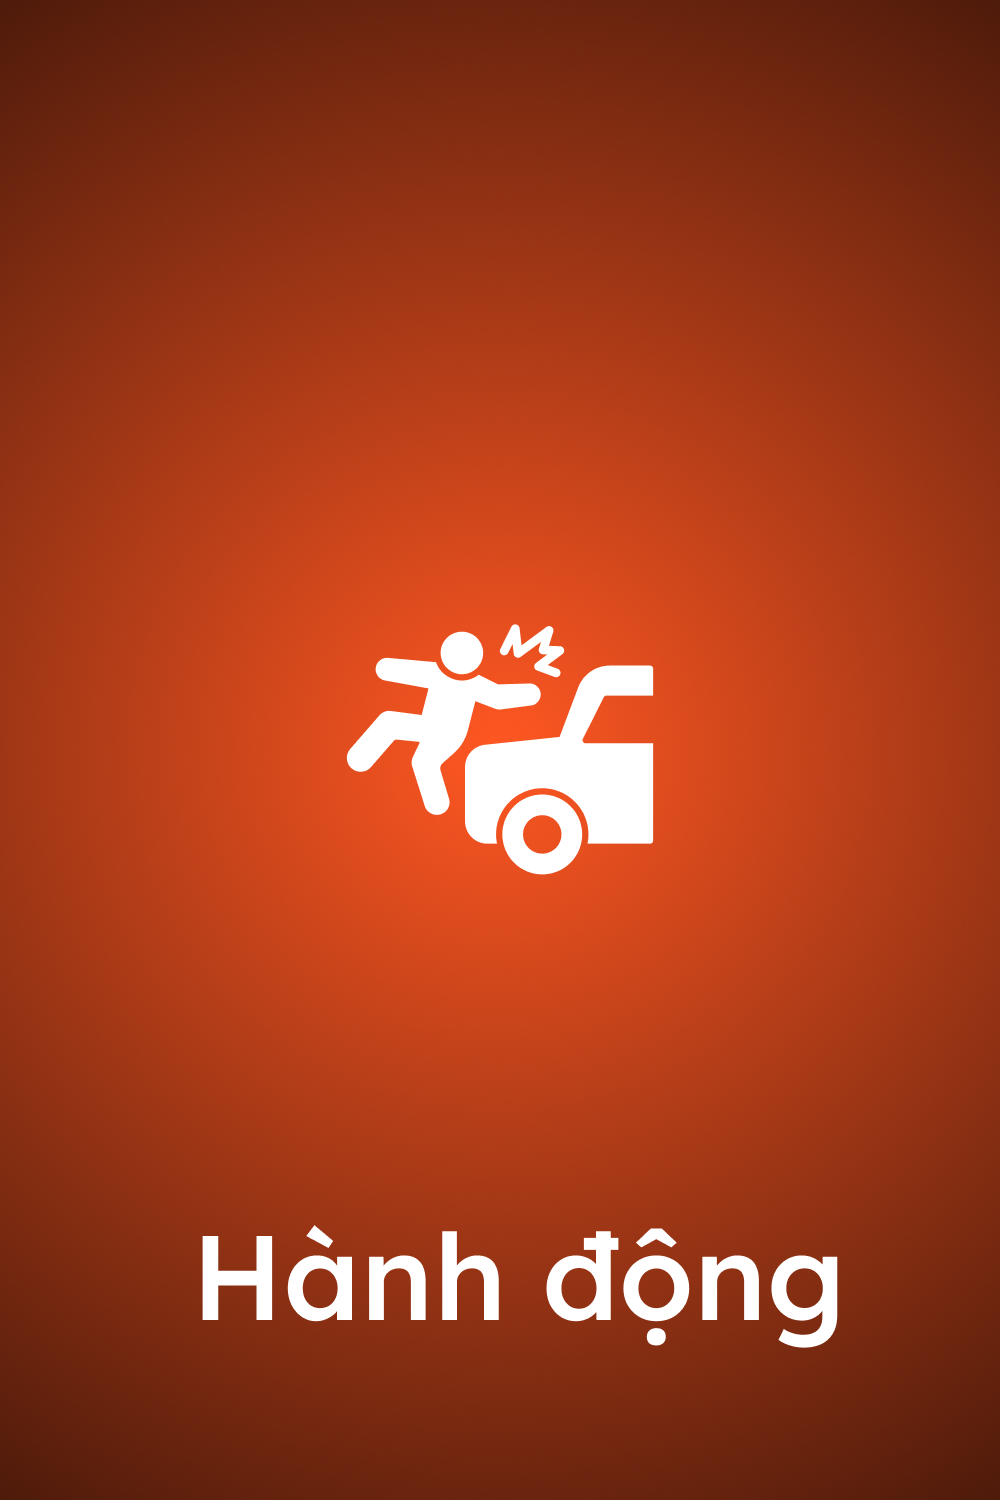
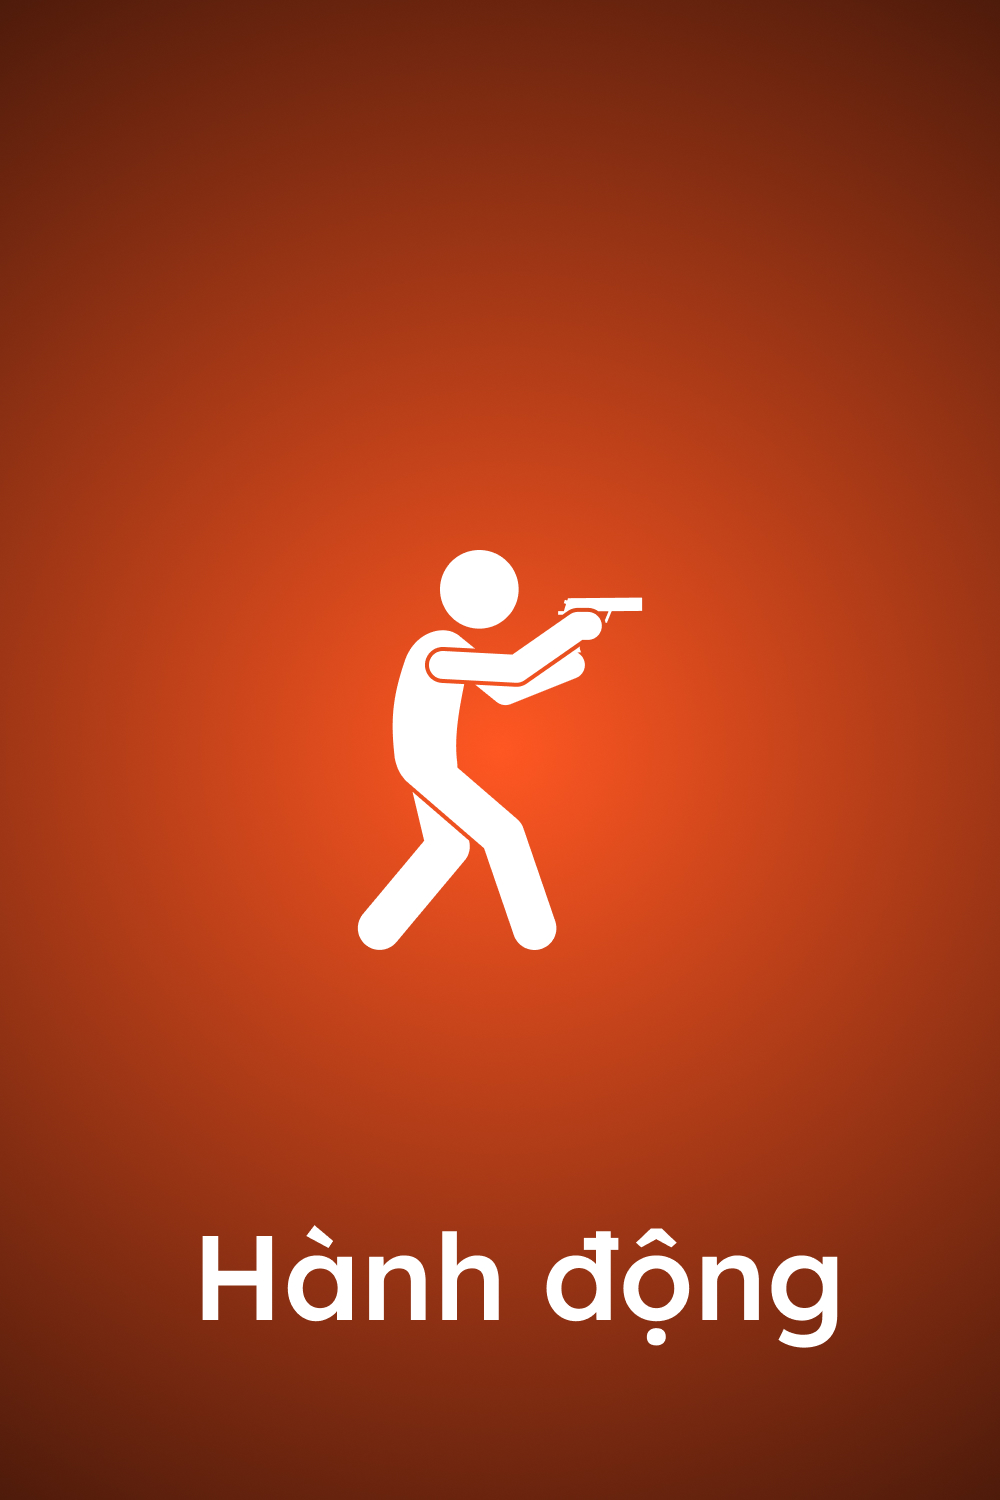
feat: add Vietnamese language support and include language toggle widget

Changed region(s): [[0.341, 0.368, 0.651, 0.644]]

diff --git a/lib/widgets/language_flag_toggle.dart b/lib/widgets/language_flag_toggle.dart
@@ -186,23 +186,24 @@ class _AnimatedToggleState extends State<AnimatedToggle> {
               child: Container(
                 width: slideSize,
                 height: slideSize,
-                decoration: ShapeDecoration(
-                  color: widget.buttonColor,
-                  shape: RoundedRectangleBorder(
-                    borderRadius: BorderRadius.circular(slideSize / 2),
-                  ),
-                  shadows: [
-                    BoxShadow(
-                      color: Colors.black.withValues(alpha: isDark ? 0.25 : 0.15),
-                      blurRadius: 6,
-                      offset: const Offset(0, 1.5),
-                    ),
-                  ],
-                ),
                 alignment: Alignment.center,
-                child: SizedBox(
+                child: Container(
                   width: flagSize,
                   height: flagSize,
+                  decoration: BoxDecoration(
+                    shape: BoxShape.circle,
+                    border: Border.all(
+                      color: isDark ? Colors.white.withValues(alpha: 0.9) : Colors.black.withValues(alpha: 0.8),
+                      width: 1.5,
+                    ),
+                    boxShadow: [
+                      BoxShadow(
+                        color: Colors.black.withValues(alpha: isDark ? 0.35 : 0.2),
+                        blurRadius: 4,
+                        offset: const Offset(0, 1),
+                      ),
+                    ],
+                  ),
                   child: ClipOval(
                     child: initialPosition ? widget.widgets[0] : widget.widgets[1],
                   ),

diff --git a/lib/i18n/strings_vi.g.dart b/lib/i18n/strings_vi.g.dart
@@ -1091,7 +1091,7 @@ class _TranslationsGenresVi extends TranslationsGenresEn {
 		'Travel': 'Du lịch',
 		'Vie': 'Thuyết minh xưa',
 		'War': 'Chiến tranh',
-		'Western': 'Cao bồi',
+		'Western': 'Viễn tây',
 	};
 }
 
@@ -2833,7 +2833,7 @@ extension on TranslationsVi {
 			'genres.names.Travel' => 'Du lịch',
 			'genres.names.Vie' => 'Thuyết minh xưa',
 			'genres.names.War' => 'Chiến tranh',
-			'genres.names.Western' => 'Cao bồi',
+			'genres.names.Western' => 'Viễn tây',
 			'collections.title' => 'Collections',
 			'collections.collection' => 'Collection',
 			'collections.empty' => 'Collection is empty',

diff --git a/lib/i18n/strings.g.dart b/lib/i18n/strings.g.dart
@@ -6,7 +6,7 @@
 /// Locales: 2
 /// Strings: 2788 (1394 per locale)
 ///
-/// Built on 2026-05-31 at 16:15 UTC
+/// Built on 2026-05-31 at 17:06 UTC
 
 // coverage:ignore-file
 // ignore_for_file: type=lint, unused_import